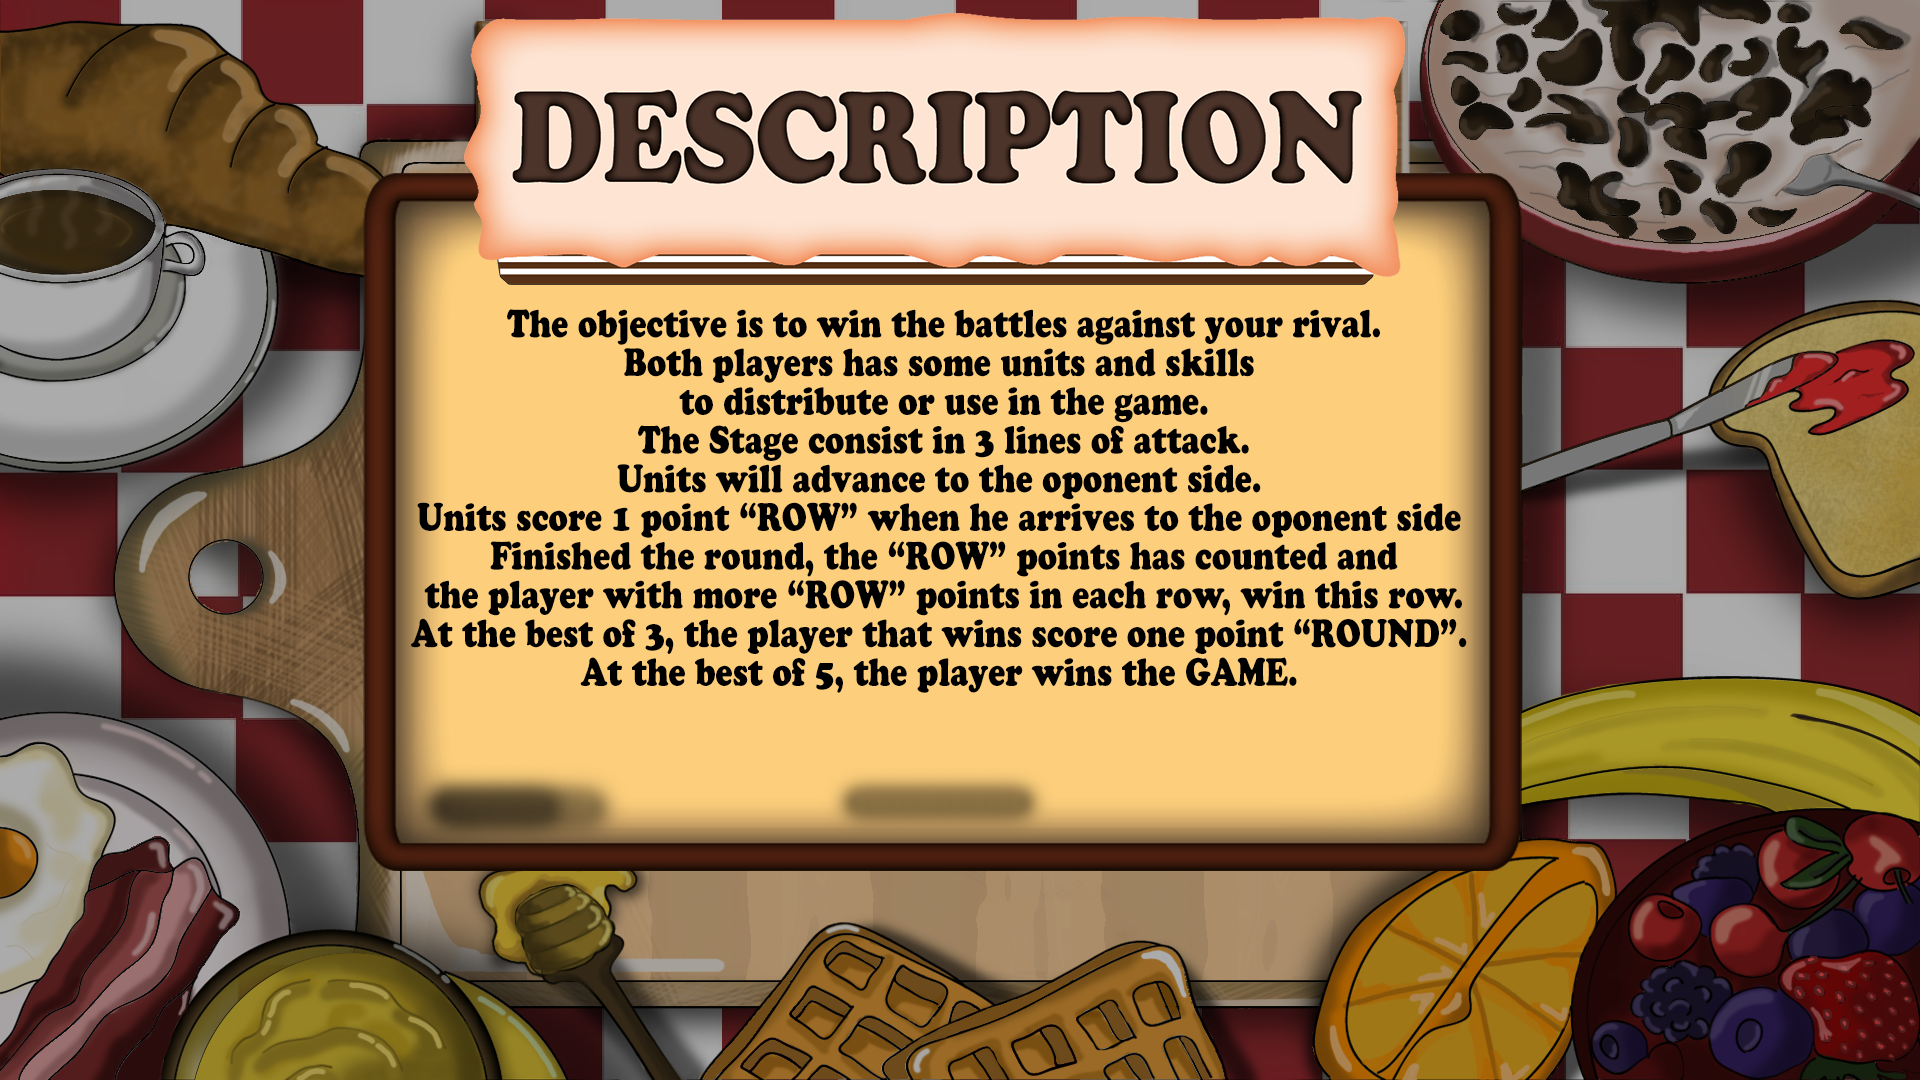
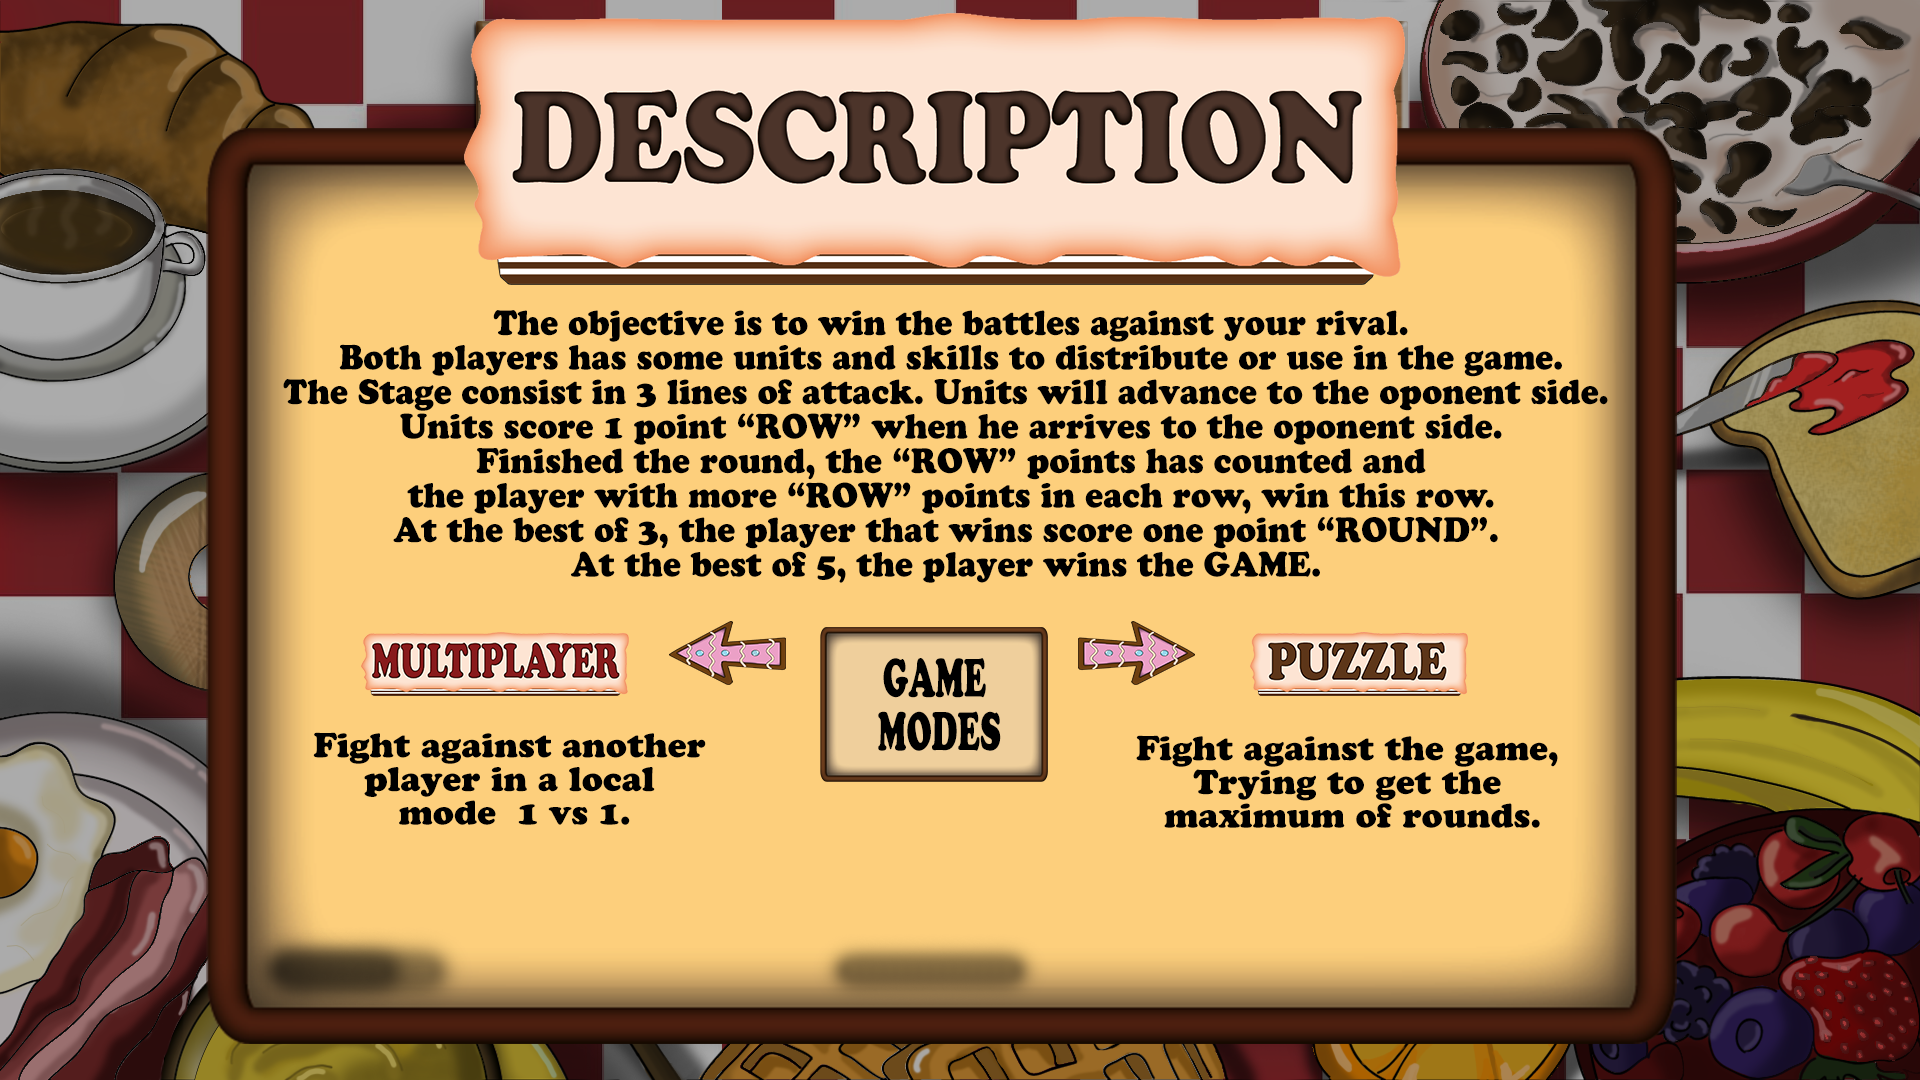
interfaz descripcion e interfaz fases

diff --git a/README.md b/README.md
@@ -336,6 +336,10 @@ El ranking lo componen 10 puntuaciones distintas asignadas a un nombre. Estas pu
 
 ![alt text](https://github.com/AtaraxiaDevs/breakfast/blob/main/ARTE/InterfazUsuario/Tutorial/Habilidades/InterfazHabilidadesEspañol.png)
 
+`FASES:`
+
+![alt text](https://github.com/AtaraxiaDevs/breakfast/blob/main/ARTE/InterfazUsuario/Tutorial/Fases/InterfazFases.png)
+
 `TIENDA-SKINS:`
 
 ![alt text](https://github.com/AtaraxiaDevs/breakfast/blob/main/ARTE/InterfazUsuario/Tienda/InterfazTiendaSkin.png)
